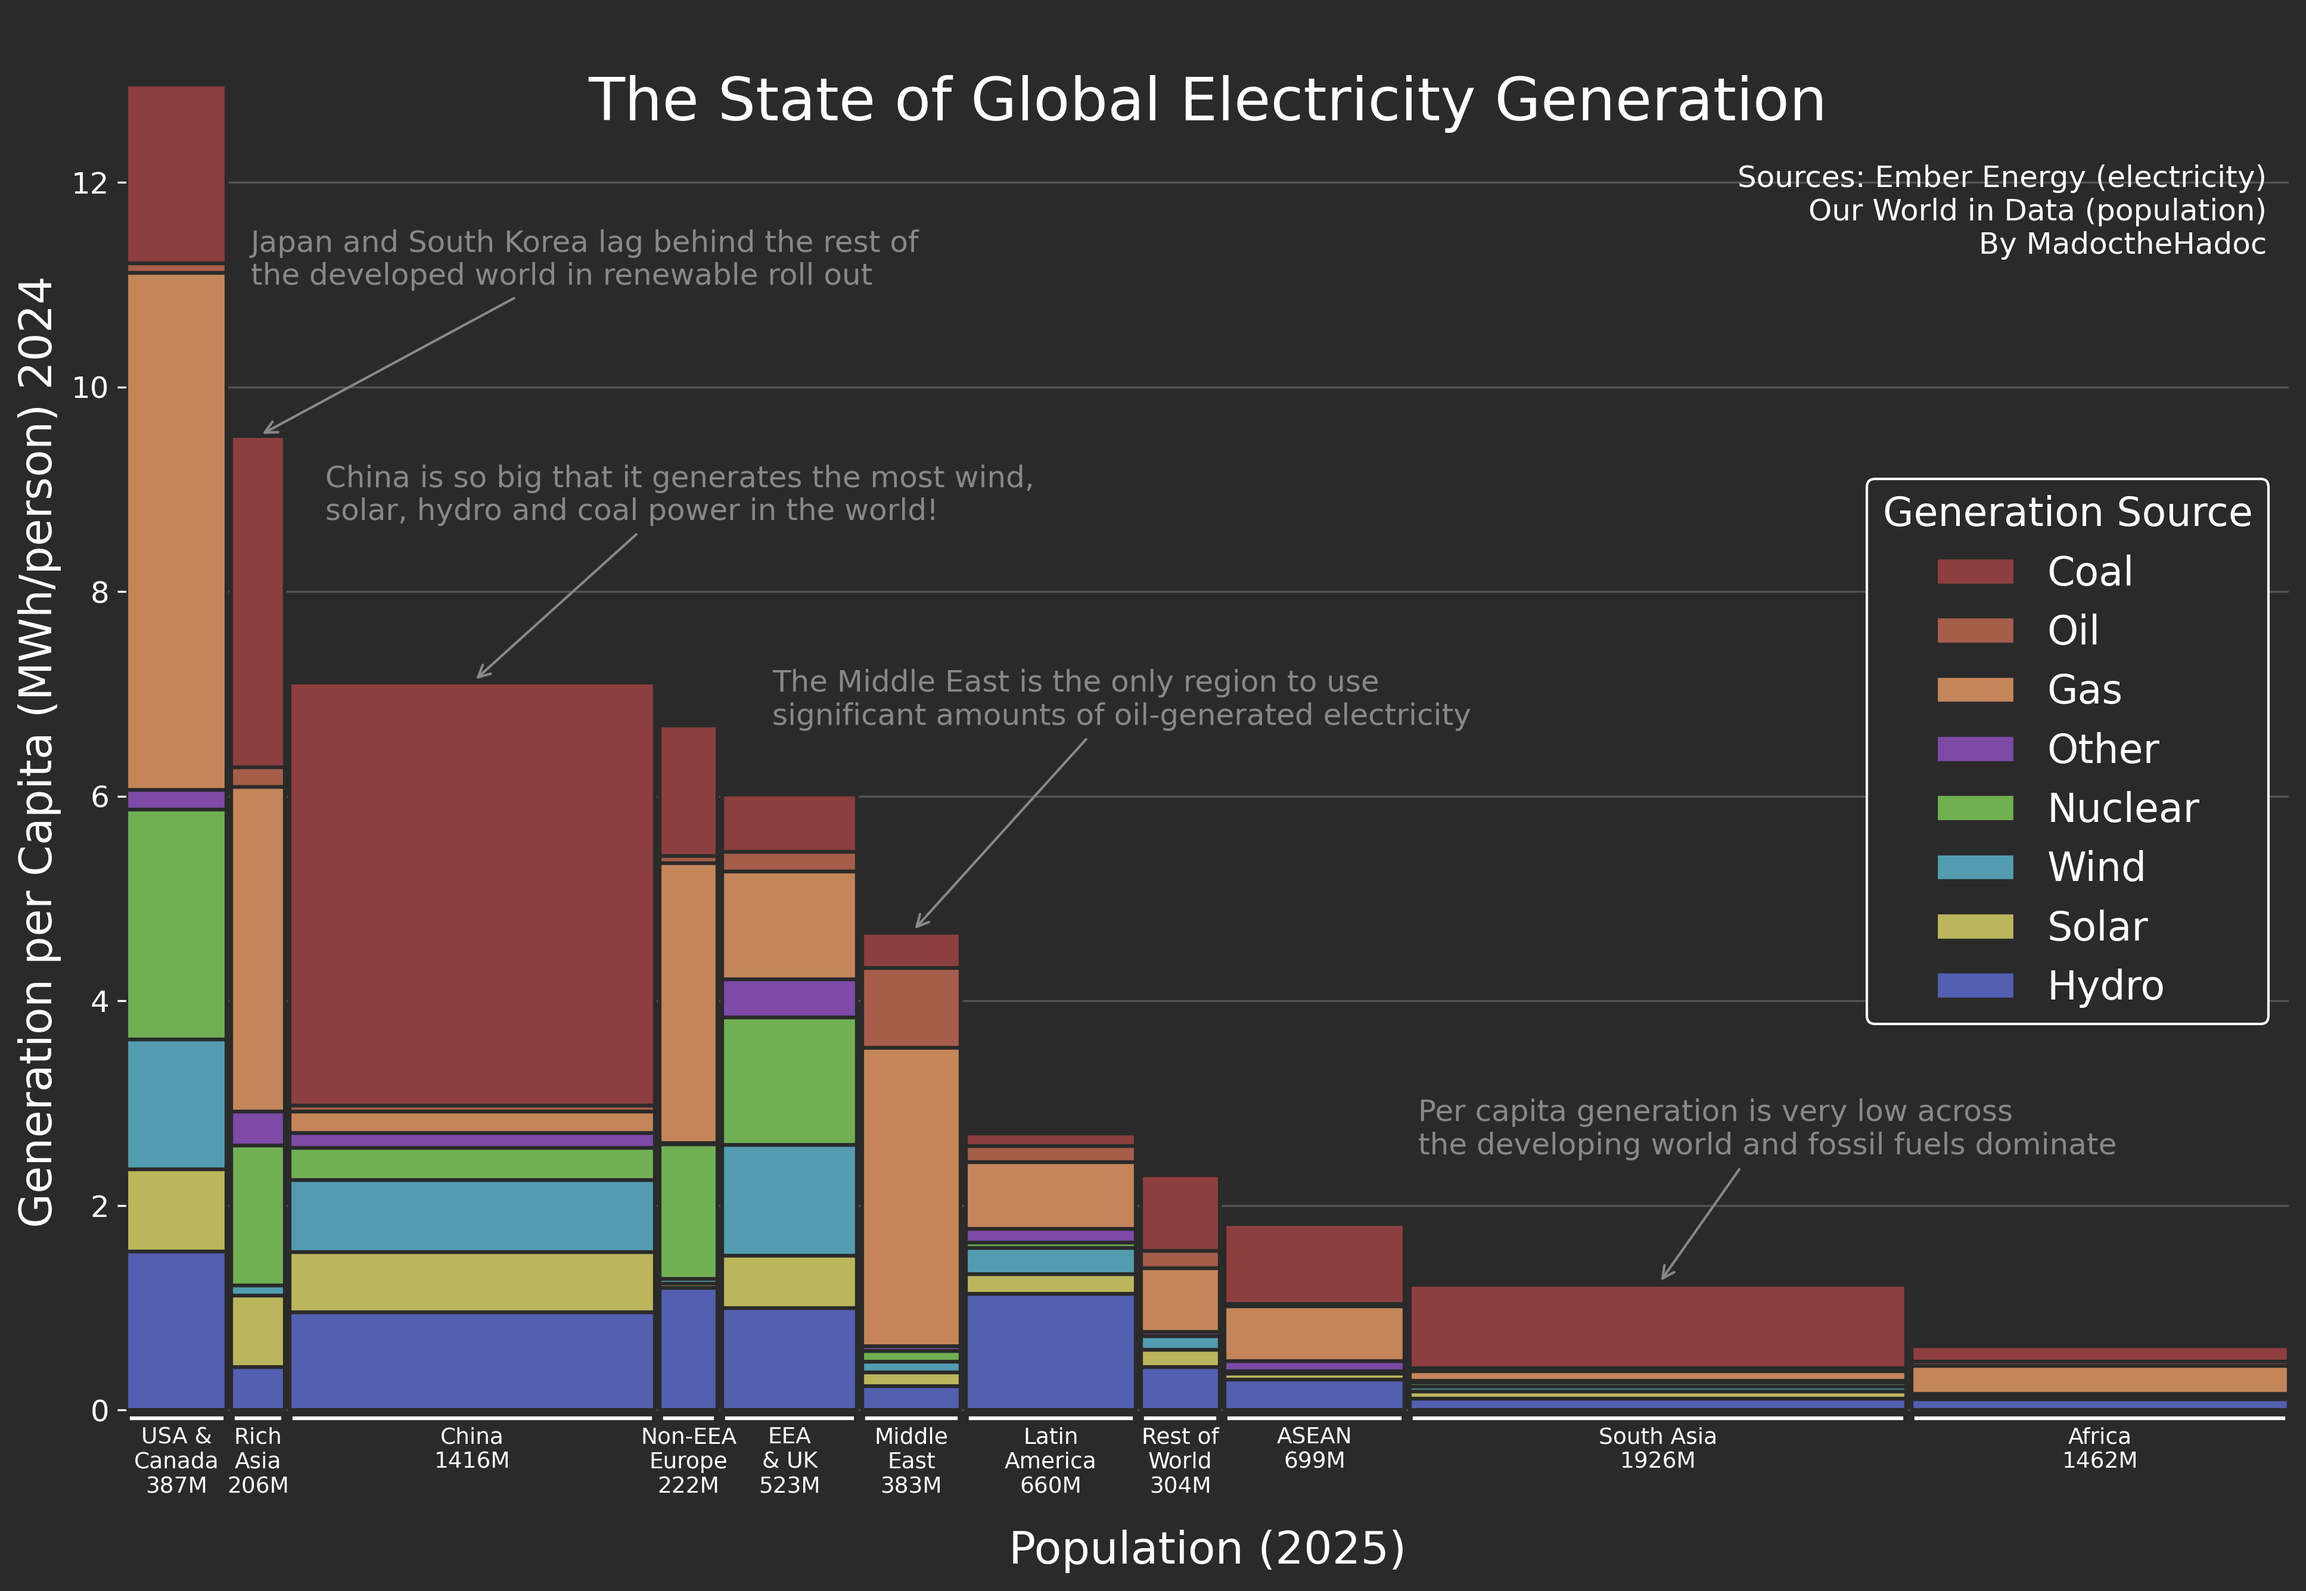
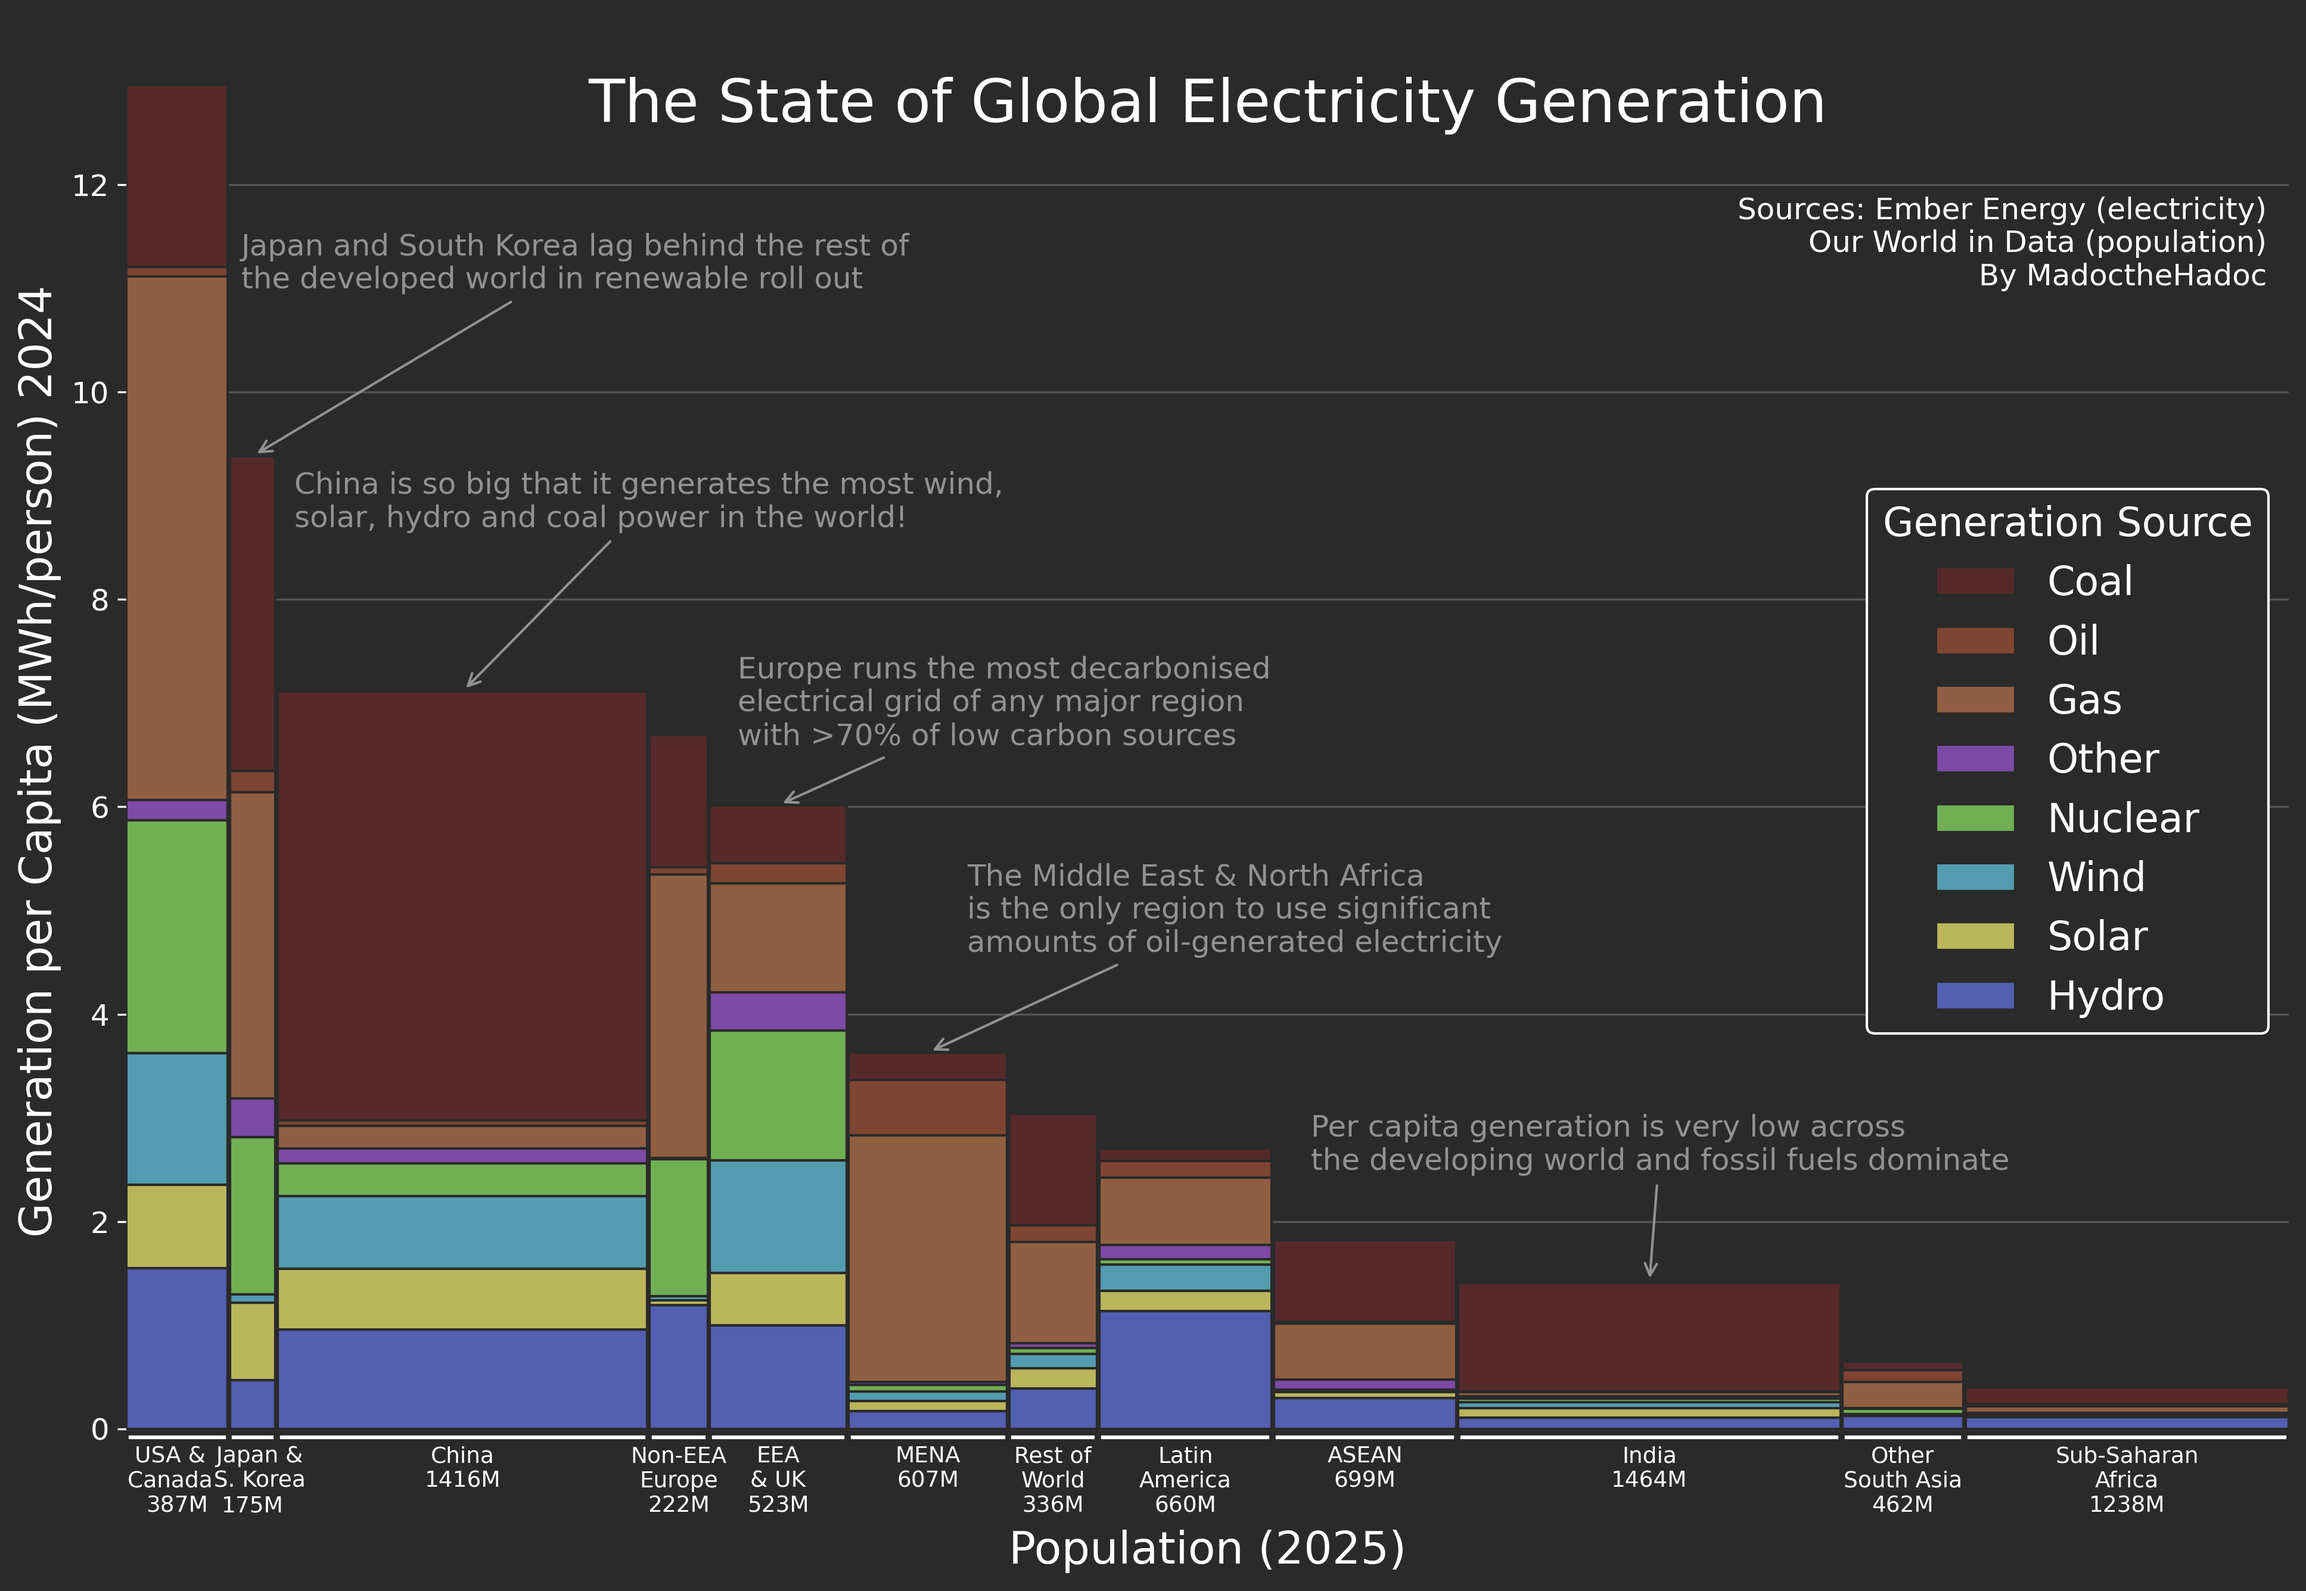
Energy Transition visual changes.

diff --git a/scripts/EnergyTransition.py b/scripts/EnergyTransition.py
@@ -32,17 +32,17 @@ COLORS = {
     'Wind': "#539CB0",
     'Nuclear': "#70B053",
     'Other': "#7D4AA6",
-    'Gas': "#C48659",
-    'Oil': "#A65E4A",
-    'Coal': "#8D3E3E"
+    'Gas': "#905F41",
+    'Oil': "#7F4533",
+    'Coal': "#562A2A"
 }
 
-ANNO_COLOR = '#888888'
+ANNO_COLOR = "#929292"
 
 BACKGROUND = '#2a2a2a'
 
 # Flags
-USE_SIMPLIFIED_REGIONS = False
+USE_SIMPLIFIED_REGIONS = True
 ANNOTATE = True
 GROUP_REMAINDER = True
 
@@ -108,7 +108,7 @@ SIMPLIFIED_REGIONS = [
 
 REGIONS = [
     {
-        'name': 'USA &\nCanada',
+        'name': 'USA &  \nCanada  ',
         'countries': [
             'United States', 'Canada'
         ]
@@ -144,17 +144,23 @@ REGIONS = [
         ]
     },
     {
-        'name': 'Rich\nAsia',
-        'countries': ['Japan', 'South Korea', 'Taiwan', 'Hong Kong', 'Macau']
+        'name': '  Japan &\n  S. Korea',
+        'countries': ['Japan', 'South Korea']
     },
     {
-        'name': 'South Asia',
+        'name': 'Other\nSouth Asia',
         'countries': [
-            'India', 'Pakistan', 'Nepal', 'Bangladesh', 'Sri Lanka', 'Bhutan', 'Maldives'
+            'Pakistan', 'Nepal', 'Bangladesh', 'Sri Lanka', 'Bhutan', 'Maldives'
         ]
     },
     {
-        'name': 'Africa',
+        'name': 'India',
+        'countries': [
+            'India',
+        ]
+    },
+    {
+        'name': 'Sub-Saharan\nAfrica',
         'countries': [
             'Nigeria', 'South Africa', 'Ethiopia', 'Kenya', 'Tanzania', 'Uganda', 'Ghana', 'Angola',
             'Mozambique', 'Ivory Coast', 'Cameroon', 'Niger', 'Burkina Faso', 'Mali', 'Malawi',
@@ -162,14 +168,15 @@ REGIONS = [
             'Sierra Leone', 'Liberia', 'Botswana', 'Namibia', 'Somalia', 'DR Congo', 'Congo',
             'Gabon', 'Guinea', 'Mauritania', 'Equatorial Guinea', 'Central African Republic', 'Lesotho',
             'Eswatini', 'Djibouti', 'Eritrea', 'Gambia', 'Guinea-Bissau', 'Burundi', 'Cape Verde',
-            'Comoros', 'Sao Tome and Principe', 'Seychelles', 'Egypt', 'Libya', 'Morocco', 'Algeria', 'Tunisia'
+            'Comoros', 'Sao Tome and Principe', 'Seychelles', 
         ]
     },
     {
-        'name': 'Middle\nEast',
+        'name': 'MENA',
         'countries': [
             'Saudi Arabia', 'Iran', 'Iraq', 'Israel', 'Jordan', 'Lebanon', 'Oman', 'Qatar', 
-            'United Arab Emirates', 'Bahrain', 'Kuwait', 'Syria', 'Yemen', 'Palestine', 'Turkey'
+            'United Arab Emirates', 'Bahrain', 'Kuwait', 'Syria', 'Yemen', 'Palestine', 'Turkey',
+            'Egypt', 'Libya', 'Morocco', 'Algeria', 'Tunisia'
         ]
     },
     {
@@ -395,7 +402,7 @@ def create_electricity_base_plot():
 
 def compute_left_positions(df_final):
     """Compute left positions based on widths with gaps between countries."""
-    gap = 0.013 if USE_SIMPLIFIED_REGIONS else 0.01
+    gap = 0.013 if USE_SIMPLIFIED_REGIONS else 0.006
     positions = [0]
     for i in range(len(df_final) - 1):
         next_pos = positions[-1] + df_final['Width'].iloc[i] + gap
@@ -405,7 +412,7 @@ def compute_left_positions(df_final):
 def plot_electricity_bars(ax, df_final, left_positions):
     """Plot the stacked bars for electricity generation."""
     bottom = np.zeros(len(df_final))
-    line_width_multiplier = 1.5 if USE_SIMPLIFIED_REGIONS else 1.5
+    line_width_multiplier = 1.0 if USE_SIMPLIFIED_REGIONS else 1.0
     
     for col in ORDERED_COLUMNS:
         lw = (1.0 if col in FOSSIL_FUELS else 1.0) * line_width_multiplier
@@ -414,7 +421,7 @@ def plot_electricity_bars(ax, df_final, left_positions):
                label=col, color=COLORS[col], align='edge',
                edgecolor=BACKGROUND, linewidth=lw)
         bottom += (df_final[col] * 1e6).values
-    
+        
     return bottom
 
 def configure_electricity_axes(ax, df_final, left_positions):
@@ -428,12 +435,13 @@ def configure_electricity_axes(ax, df_final, left_positions):
     
     smallsize = 24 if USE_SIMPLIFIED_REGIONS else 18
     titlesize = 28 if USE_SIMPLIFIED_REGIONS else 24
+    pad = 15 if USE_SIMPLIFIED_REGIONS else 10
     # Larger fonts for mobile readability
     ax.set_xlabel(
         'Population (2025)',
         color='white',
         fontsize=smallsize,
-        labelpad=18
+        labelpad=pad
     )
     ax.set_ylabel(
         'Generation per Capita (MWh/person) 2024',
@@ -505,7 +513,7 @@ def add_electricity_legend(ax):
 
 def add_electricity_source_label(ax):
     """Add source label with responsive positioning."""
-    position = (0.99, 0.96) if USE_SIMPLIFIED_REGIONS else (0.99, 0.9)
+    position = (0.99, 0.96) if USE_SIMPLIFIED_REGIONS else (0.99, 0.88)
     size = 14 if USE_SIMPLIFIED_REGIONS else 12
     
     ax.text(
@@ -522,18 +530,18 @@ def add_electricity_annotations(ax, df_final, left_positions, bottom):
     simplified_annotations = [
         {
             'location': 'China',
-            'text': "China generates the most electricity in the world\nbut still produces much less than the US per capita",
-            'text_pos': (0.3, 8.7),
+            'text': "China generates the most electricity\nin the world but still produces much\nless than the US per capita",
+            'text_pos': (0.25, 8.7),
         },
         {
             'location': 'Europe\n(ex. Russia)',
-            'text': "Europe and Latin America are only major\nregions with majority renewable energy",
-            'text_pos': (1.2, 6.7),
+            'text': "Europe and Latin America are\nthe only regions with majority\nrenewable electricity",
+            'text_pos': (1.1, 6.7),
         },
         {
             'location': 'South Asia',
-            'text': "Per capita generation is very low across the\ndeveloping world and fossil fuels dominate",
-            'text_pos': (2.4, 2.7),
+            'text': "Per capita generation is very low\nacross the developing world and\nfossil fuels dominate",
+            'text_pos': (2.5, 2.7),
         }
     ]
     
@@ -541,22 +549,27 @@ def add_electricity_annotations(ax, df_final, left_positions, bottom):
         {
             'location': 'China',
             'text': "China is so big that it generates the most wind,\nsolar, hydro and coal power in the world!",
-            'text_pos': (0.4, 8.7),
+            'text_pos': (0.44, 8.7),
         },
         {
-            'location': 'Rich\nAsia',
+            'location': REGIONS[5]['name'],
             'text': "Japan and South Korea lag behind the rest of\nthe developed world in renewable roll out",
-            'text_pos': (0.25, 11.0),
+            'text_pos': (0.3, 11.0),
         },
         {
-            'location': 'South Asia',
+            'location': 'India',
             'text': "Per capita generation is very low across\nthe developing world and fossil fuels dominate",
-            'text_pos': (2.6, 2.5),
+            'text_pos': (3.1, 2.5),
         },
         {
-            'location': 'Middle\nEast',
-            'text': "The Middle East is the only region to use\nsignificant amounts of oil-generated electricity",
-            'text_pos': (1.3, 6.7),
+            'location': 'MENA',
+            'text': "The Middle East & North Africa\nis the only region to use significant\namounts of oil-generated electricity",
+            'text_pos': (2.2, 4.6),
+        },
+        {
+            'location': REGIONS[2]['name'],
+            'text': "Europe runs the most decarbonised\nelectrical grid of any major region\nwith >70% of low carbon sources",
+            'text_pos': (1.6, 6.6),
         }
     ]
     
@@ -624,7 +637,6 @@ def main():
     
     regions = SIMPLIFIED_REGIONS if USE_SIMPLIFIED_REGIONS else REGIONS
     df_final = regionalize(df, regions)
-
     plot_electricity(df_final)
 
 if __name__ == "__main__":
